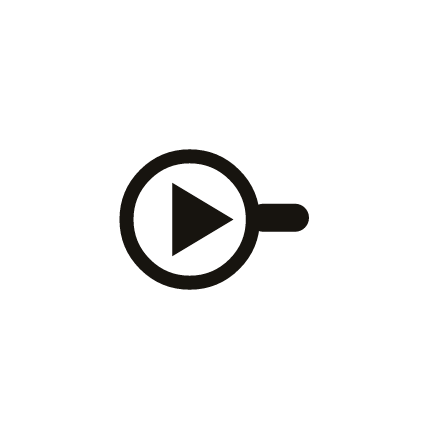
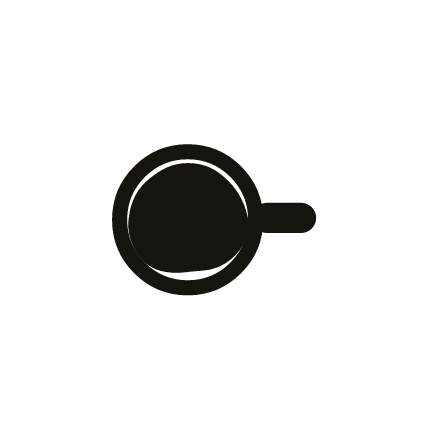
CI 심볼 교체: 재생 삼각형 → 팬 속 후라이 계란
- logo-mark / logo(워드마크) / favicon.svg / 웹 헤더 심볼을 계란-팬으로 통일
- scripts/gen-icons.mjs mark() 재작성: 계란 흰자는 ring 색으로 외곽선을
  둘러 밝은 배경에서도 보이게, 모노크롬은 egg/yolk 를 ink 로 채워 실루엣
- assets/* 아이콘·스플래시·적응형, apple-touch-icon, favicon.png 재생성

Changed region(s): [[0.2407, 0.331, 0.7523, 0.6921]]

diff --git a/apps/web/src/Layout.tsx b/apps/web/src/Layout.tsx
@@ -19,7 +19,6 @@ export default function Layout() {
               role="img"
               aria-label="FoodPlay"
             >
-              <path d="M46 45 L46 87 L81 66 Z" fill="#e8590c" />
               <rect x="90" y="57" width="34" height="16" rx="8" fill="currentColor" />
               <circle
                 cx="56"
@@ -29,6 +28,17 @@ export default function Layout() {
                 stroke="currentColor"
                 strokeWidth="8"
               />
+              <g transform="translate(56 66) scale(1.12) translate(-56 -66)">
+                <path
+                  d="M56 41C64 41 69 44 74 49 79 54 82 61 83 67 84 74 79 81 73 85 67 89 61 88 55 89 46 90 40 88 36 84 31 79 29 71 30 65 31 57 34 52 39 48 44 44 49 41 56 41Z"
+                  fill="#fbfaf7"
+                  stroke="currentColor"
+                  strokeWidth="3.6"
+                  strokeLinejoin="round"
+                />
+                <circle cx="52" cy="68" r="13" fill="#f6a609" />
+                <circle cx="46" cy="62" r="4.5" fill="#ffd43b" />
+              </g>
             </svg>
             <span className="text-[15px] font-semibold tracking-tight">
               FoodPlay
